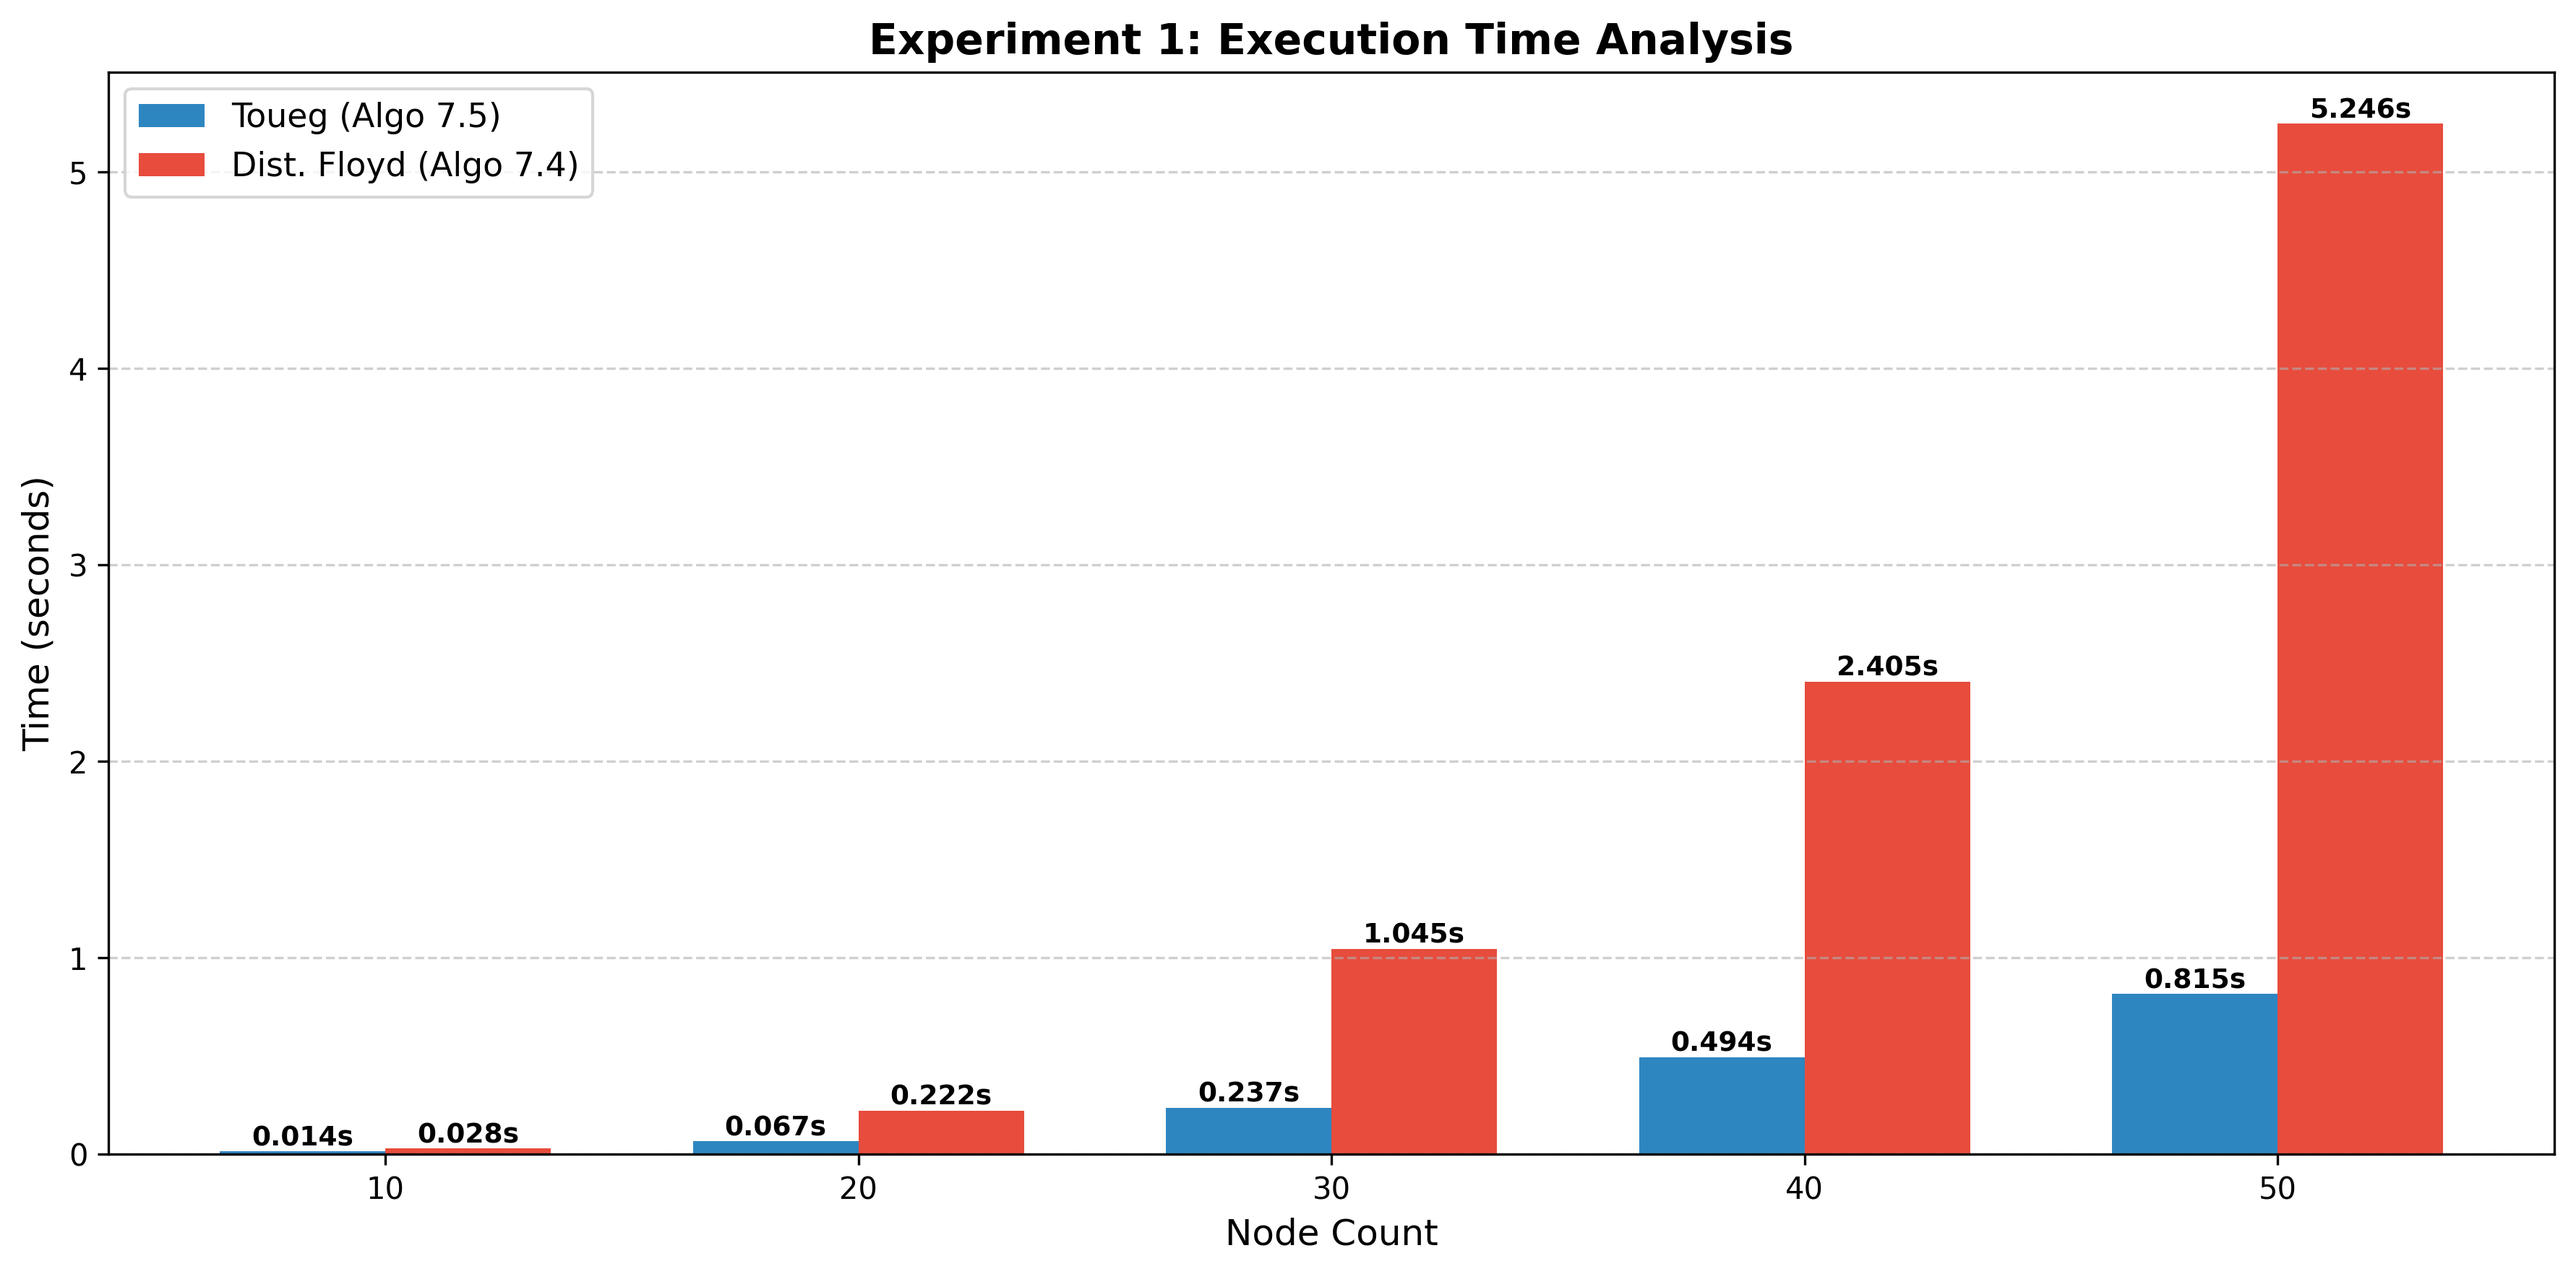
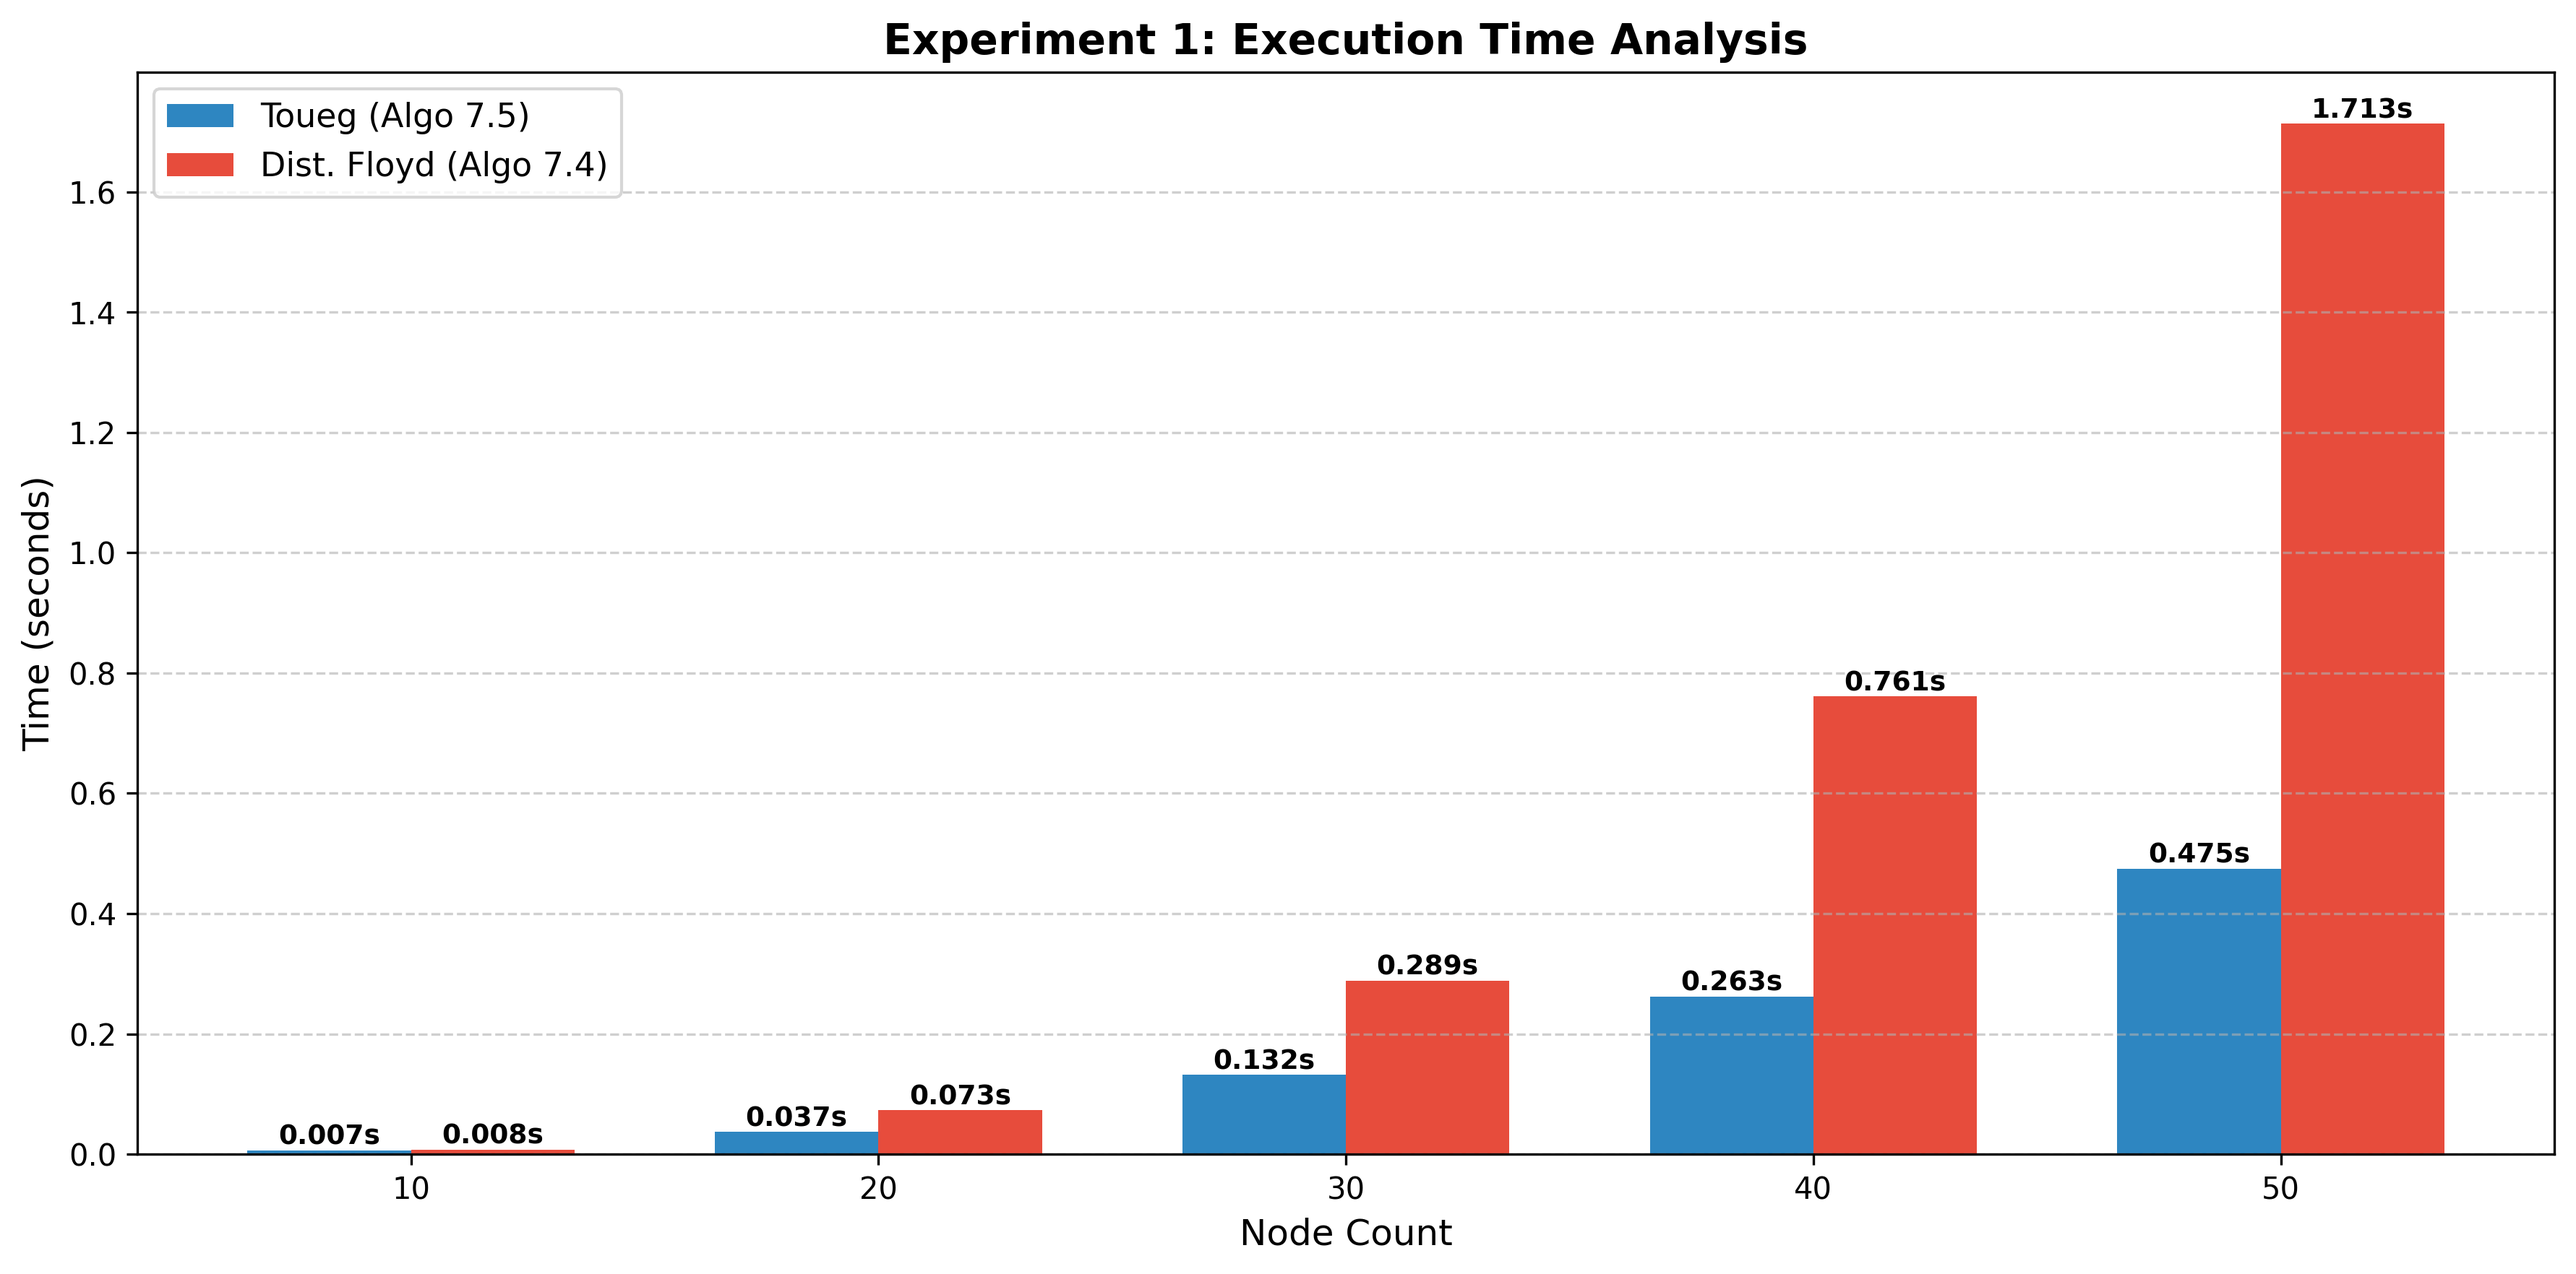
feat: Implement and evaluate distributed Floyd-Warshall algorithm, generating comparative simulation results and visualizations.

diff --git a/src/algorithms/floyd_node.py b/src/algorithms/floyd_node.py
@@ -38,17 +38,19 @@ class FloydNode(Node):
             if m_type == 'START_ROUND':
                 w = msg['pivot']
                 
-                # If I am pivot, initiate flood
+                # If I am pivot, initiate flood with my distance vector
                 if self.id == w:
                     self.S_u.add(w)
+                    # Pivot broadcasts its own distance vector
                     self.broadcast_vector(w, self.D_u)
+                # If I'm NOT the pivot, I still need to be ready to receive FLOOD_DW
+                # The algorithm continues in the FLOOD_DW handler below
 
             elif m_type == 'FLOOD_DW':
                 w = msg['pivot_src']
-                D_w = msg['vector']
+                D_w = msg['vector']  # This is the SENDER's distance vector (not necessarily pivot's)
                 sender = msg['sender']
                 
-                # --- CRITICAL FIX ---
                 # Check 1: Is this the first time I hear about pivot w?
                 first_time = (w not in self.S_u)
                 
@@ -56,14 +58,17 @@ class FloydNode(Node):
                     self.S_u.add(w)
                 
                 # Check 2: Does this message improve my routing table?
-                # (Even if I heard from w before, this neighbor might offer a better path)
                 improved = self.relax(w, D_w, sender)
                 
-                # RULE: Broadcast if it's the first time OR if we found a better path.
-                # This causes the "Chatter" that makes Floyd expensive.
+                # CRITICAL FIX: After updating our table, broadcast OUR updated D_u
+                # Each node propagates its own distances, not the pivot's
+                # This is how distributed Floyd-Warshall works: flooding with updates
                 if first_time or improved:
-                    # If improved, we must share the new D_u with neighbors
+                    # Broadcast our own updated distance vector
                     self.broadcast_vector(w, self.D_u)
+
+
+
 
     def broadcast_vector(self, w, vector):
         """Broadcasts the distance vector to ALL neighbors."""
@@ -75,43 +80,38 @@ class FloydNode(Node):
                 'sender': self.id
             })
 
-    def relax(self, w, D_w, sender):
+    def relax(self, w, D_sender, sender):
         """
-        Updates local distances. 
+        Updates local distances following distributed Floyd-Warshall logic.
+        
+        IMPORTANT: D_sender is the SENDER's distance table, not the pivot's!
+        Each node broadcasts its own D_u after updating.
+        
+        Algorithm 7.4 Line 19 adapted for distributed flooding:
+        For each destination v: Du[v] = min(Du[v], dist(u, sender) + D_sender[v])
+        
         Returns True if ANY value in the table improved.
         """
         updated = False
+        
+        # Get edge weight to sender
         dist_to_sender = self.neighbors.get(sender, {}).get('weight', float('inf'))
         
-        # We also need to update the distance TO the pivot w itself via sender
-        # This is often missed. The vector D_w contains distances FROM w.
-        # But D_w[w] is 0. So logic handles it naturally below.
+        # Update distances using sender's table
+        # For each destination v in sender's table:
+        # New path: me -> sender -> v
+        # Cost: dist(me, sender) + D_sender[v]
         
-        for v, dist_w_v in D_w.items():
-            current_dist = self.D_u.get(v, float('inf'))
+        for v, dist_sender_to_v in D_sender.items():
+            current_dist_to_v = self.D_u.get(v, float('inf'))
             
-            # Path: Me -> Sender -> ... -> v
-            # Cost: (Me->Sender) + (Sender's cost to v [which comes from w's vector perspective])
-            # Wait, DistFW propagates D_w (distance from w to others).
-            # The relaxation logic in the book is: Du[v] = min(Du[v], Du[w] + Dw[v])
-            # We need to ensure we have a valid Du[w] first.
+            # New distance via sender
+            new_dist_to_v = dist_to_sender + dist_sender_to_v
             
-            dist_u_w = self.D_u.get(w, float('inf'))
-            
-            # If we don't know how to reach w, we can't use w as a pivot yet.
-            # But wait, if 'sender' sent us this, we can reach w via 'sender'.
-            # Special update for Du[w] using the sender:
-            if v == w:
-                 # The vector says dist from w to w is 0.
-                 # So cost to w via sender is dist_to_sender + 0.
-                 pass 
-
-            new_dist_via_pivot = dist_u_w + dist_w_v
-            
-            if new_dist_via_pivot < current_dist:
-                self.D_u[v] = new_dist_via_pivot
-                if w in self.P_u:
-                     self.P_u[v] = self.P_u[w]
+            # If this path is better, update
+            if new_dist_to_v < current_dist_to_v:
+                self.D_u[v] = new_dist_to_v
+                self.P_u[v] = sender  # Next hop to reach v is sender
                 updated = True
-                
+        
         return updated

diff --git a/src/main_runner.py b/src/main_runner.py
@@ -116,6 +116,7 @@ def run_experiment_basic(num_nodes, scenario_name, AlgoClass=TouegNode, is_spars
         sim_table = sys.nodes[check_node].D_u
         gt_table = real_paths[check_node]
         correct, total = 0, 0
+        
         for dest in nodes:
             if dest == check_node: continue
             sim_val = sim_table.get(dest, float('inf'))
